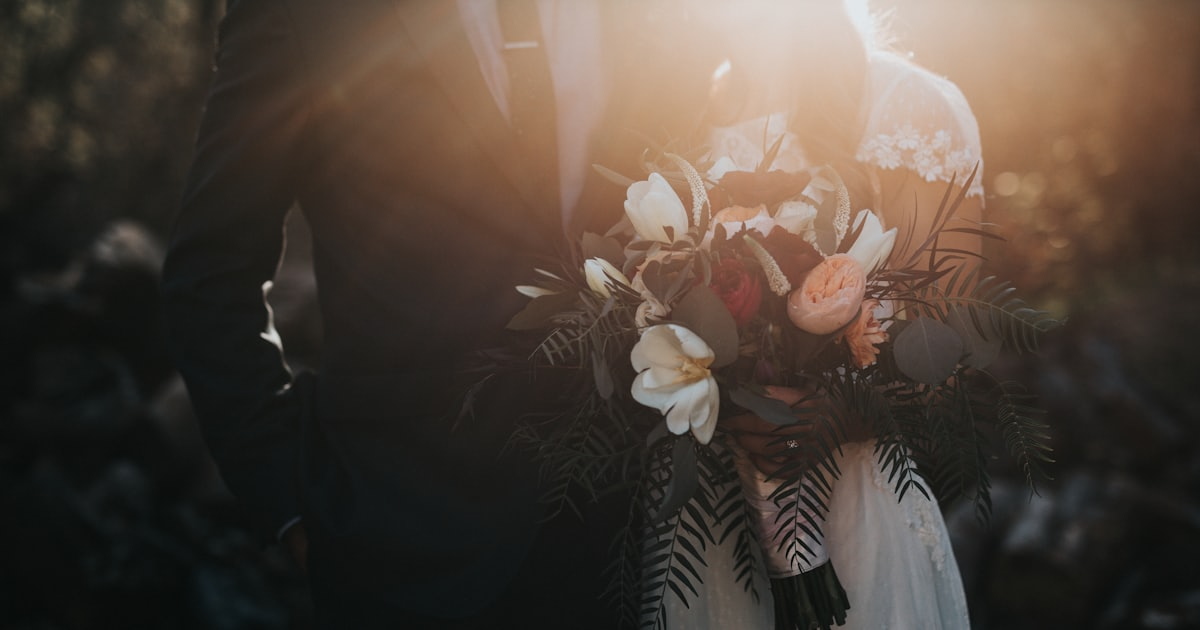
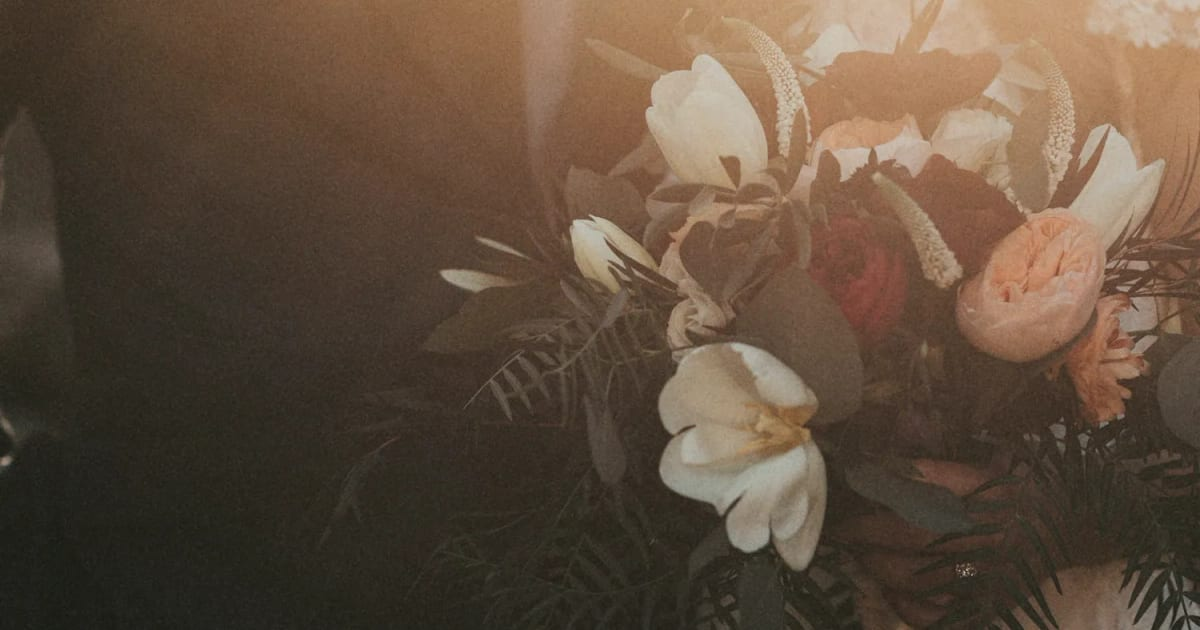
feat: spójna seria zdjęć w jednej gradacji filmowej
Słabe kadry stockowe (tablet, czerwony sweter, zachód z sylwetkami,
modelka zamiast fotografki) zastąpione kadrami w stylu Portra 400,
reszta przepuszczona przez wspólną gradację: ciepłe światła, podniesione
czernie, stonowane nasycenie, drobne ziarno. Zdjęcia jako WebP,
proporcje ujednolicone do 4:5 i 3:2, numery kadrów stałe jak na stykówce.

diff --git a/src/data/content.ts b/src/data/content.ts
@@ -1,20 +1,22 @@
 import type { StaticImageData } from "next/image";
 
-import hero from "../../public/gallery/hero.jpg";
-import lena from "../../public/gallery/lena.jpg";
-import slub01 from "../../public/gallery/slub-01.jpg";
-import slub02 from "../../public/gallery/slub-02.jpg";
-import slub03 from "../../public/gallery/slub-03.jpg";
-import slub04 from "../../public/gallery/slub-04.jpg";
-import slub05 from "../../public/gallery/slub-05.jpg";
-import slub06 from "../../public/gallery/slub-06.jpg";
-import portret01 from "../../public/gallery/portret-01.jpg";
-import portret02 from "../../public/gallery/portret-02.jpg";
-import portret03 from "../../public/gallery/portret-03.jpg";
-import portret04 from "../../public/gallery/portret-04.jpg";
-import rodzina01 from "../../public/gallery/rodzina-01.jpg";
-import rodzina02 from "../../public/gallery/rodzina-02.jpg";
-import rodzina03 from "../../public/gallery/rodzina-03.jpg";
+import hero from "../../public/gallery/hero.webp";
+import lena from "../../public/gallery/lena.webp";
+import slubPalma from "../../public/gallery/slub-palma.webp";
+import slubGuziki from "../../public/gallery/slub-guziki.webp";
+import slubWelon from "../../public/gallery/slub-welon.webp";
+import slubTaniec from "../../public/gallery/slub-taniec.webp";
+import slubTatry from "../../public/gallery/slub-tatry.webp";
+import slubSad from "../../public/gallery/slub-sad.webp";
+import slubBrama from "../../public/gallery/slub-brama.webp";
+import portretJulia from "../../public/gallery/portret-julia.webp";
+import portretHalina from "../../public/gallery/portret-halina.webp";
+import portretEwa from "../../public/gallery/portret-ewa.webp";
+import portretWeronika from "../../public/gallery/portret-weronika.webp";
+import rodzinaLaka from "../../public/gallery/rodzina-laka.webp";
+import rodzinaNiedziela from "../../public/gallery/rodzina-niedziela.webp";
+import rodzinaWydmy from "../../public/gallery/rodzina-wydmy.webp";
+import klisza from "../../public/render/klisza.webp";
 
 export const site = {
   name: "Lena Czarnecka",
@@ -29,16 +31,19 @@ export const site = {
 
 export const heroImage = hero;
 export const portraitImage = lena;
+export const filmStill = klisza;
 
 export type Category = "slub" | "portret" | "rodzina";
 
-export const categories: { id: Category; label: string }[] = [
-  { id: "slub", label: "Śluby" },
-  { id: "portret", label: "Portrety" },
-  { id: "rodzina", label: "Rodzinne" },
+export const categories: { id: Category; label: string; anchor: string; note: string }[] = [
+  { id: "slub", label: "Śluby", anchor: "sluby", note: "reportaż całego dnia" },
+  { id: "portret", label: "Portrety", anchor: "portrety", note: "plener i studio" },
+  { id: "rodzina", label: "Rodzinne", anchor: "rodzinne", note: "dom, łąka, morze" },
 ];
 
 export type Photo = {
+  /** stały numer kadru, jak na stykówce: nie zmienia się przy filtrowaniu */
+  nr: number;
   src: StaticImageData;
   alt: string;
   title: string;
@@ -46,105 +51,115 @@ export type Photo = {
   category: Category;
 };
 
-export const photos: Photo[] = [
+const raw: Omit<Photo, "nr">[] = [
   {
-    src: slub01,
+    src: slubPalma,
     alt: "Para młoda idzie pod palmą o zmierzchu, panna młoda trzyma bukiet",
-    title: "Marta & Jan",
+    title: "Marta i Jan",
     place: "Taormina, Sycylia",
     category: "slub",
   },
   {
-    src: portret01,
+    src: portretJulia,
     alt: "Portret kobiety w prążkowanej koszuli w złotym świetle zachodu",
     title: "Julia",
     place: "Zakrzówek, złota godzina",
     category: "portret",
   },
   {
-    src: slub03,
-    alt: "Dłonie pary młodej z obrączkami na tle bukietu",
-    title: "Detal — obrączki",
+    src: slubGuziki,
+    alt: "Dłonie mamy zapinają rząd drobnych guzików na plecach sukni ślubnej, poranne światło z okna",
+    title: "Ania i Paweł: ostatni guzik",
     place: "Dwór w Tomaszowicach",
     category: "slub",
   },
   {
-    src: rodzina01,
-    alt: "Wielopokoleniowa rodzina trzyma się za ręce na plaży o zachodzie słońca",
-    title: "Trzy pokolenia",
-    place: "Bałtyk, sierpień",
-    category: "rodzina",
-  },
-  {
-    src: slub02,
-    alt: "Para młoda na kamienistej plaży, welon owinięty wokół obojga",
-    title: "Gosia & Tomek",
-    place: "Klif w Orłowie",
-    category: "slub",
-  },
-  {
-    src: portret02,
-    alt: "Roześmiana kobieta w bordowej sukience, portret miejski",
-    title: "Natalia",
-    place: "Kazimierz, Kraków",
-    category: "portret",
-  },
-  {
-    src: slub05,
-    alt: "Para młoda idzie przez górską przełęcz o świcie",
-    title: "Kasia & Michał — plener",
-    place: "Tatry Zachodnie",
-    category: "slub",
-  },
-  {
-    src: rodzina02,
-    alt: "Rodzice z trójką dzieci idą gęsiego przez letnią łąkę",
+    src: rodzinaLaka,
+    alt: "Rodzice z trójką dzieci idą gęsiego przez letnią łąkę, trzymając się za ręce",
     title: "Rodzina K.",
     place: "Łąki pod Krakowem",
     category: "rodzina",
   },
   {
-    src: slub04,
-    alt: "Pocałunek pary młodej w deszczu płatków kwiatów wśród gości",
-    title: "Ania & Paweł",
+    src: slubTaniec,
+    alt: "Pierwszy taniec pary młodej w drewnianej stodole pod girlandą żarówek, goście jako sylwetki na pierwszym planie",
+    title: "Ania i Paweł: pierwszy taniec",
     place: "Dwór w Tomaszowicach",
     category: "slub",
   },
   {
-    src: portret03,
-    alt: "Portret uśmiechniętej kobiety o blond włosach w wieczornym świetle ogrodu",
+    src: portretHalina,
+    alt: "Starsza kobieta o srebrnych włosach z uśmiechem patrzy na bukiet dalii w swoim ogródku",
+    title: "Pani Halina",
+    place: "Ogródki działkowe, Nowa Huta",
+    category: "portret",
+  },
+  {
+    src: slubWelon,
+    alt: "Para młoda na kamienistej plaży, długi welon rozwiany wokół obojga",
+    title: "Gosia i Tomek",
+    place: "Klif w Orłowie",
+    category: "slub",
+  },
+  {
+    src: rodzinaNiedziela,
+    alt: "Dwoje małych dzieci w piżamach skacze po łóżku z lnianą pościelą w porannym słońcu",
+    title: "Niedziela w domu",
+    place: "Sesja domowa, Krowodrza",
+    category: "rodzina",
+  },
+  {
+    src: slubSad,
+    alt: "Długi stół weselny w sadzie po kolacji: lniany obrus, świece, polne kwiaty i kieliszki w późnym świetle",
+    title: "Ania i Paweł: po kolacji",
+    place: "Sad przy dworze w Tomaszowicach",
+    category: "slub",
+  },
+  {
+    src: portretEwa,
+    alt: "Portret uśmiechniętej kobiety o jasnych włosach w wieczornym świetle ogrodu",
     title: "Pani Ewa",
     place: "Wola Justowska",
     category: "portret",
   },
   {
-    src: rodzina03,
-    alt: "Mama z dwójką małych dzieci na kanapie podczas sesji domowej",
-    title: "Niedziela w domu",
-    place: "Sesja lifestyle",
+    src: slubTatry,
+    alt: "Para młoda idzie grzbietem gór o świcie, daleko w kadrze pod jasnym niebem",
+    title: "Kasia i Michał, plener",
+    place: "Tatry Zachodnie",
+    category: "slub",
+  },
+  {
+    src: rodzinaWydmy,
+    alt: "Tata z synkiem na barana i mama z kapeluszem w dłoni idą ścieżką przez wydmy porośnięte trawą",
+    title: "Wakacje nad morzem",
+    place: "Wydmy w Dębkach",
     category: "rodzina",
   },
   {
-    src: portret04,
+    src: portretWeronika,
     alt: "Studyjny portret kobiety w czarnej bluzce na grafitowym tle",
     title: "Weronika",
     place: "Studio, Podgórze",
     category: "portret",
   },
   {
-    src: slub06,
-    alt: "Kompozycja kwiatowa na drewnianej bramie ślubnej w plenerze",
+    src: slubBrama,
+    alt: "Bukiet z różami i zielenią przewiązany na lnianej bramie ślubnej w plenerze",
     title: "Ceremonia w plenerze",
     place: "Zamek Ogrodzieniec",
     category: "slub",
   },
 ];
 
+export const photos: Photo[] = raw.map((p, i) => ({ ...p, nr: i + 1 }));
+
 export type Pakiet = {
   nr: string;
   name: string;
   sub: string;
   includes: string[];
+  /** cena "od", bez słowa "od" (dodaje je widok) */
   price: string;
 };
 
@@ -159,7 +174,7 @@ export const pakiety: Pakiet[] = [
       "galeria online na 12 miesięcy",
       "przewodnik „jak się przygotować”",
     ],
-    price: "od 650 zł",
+    price: "650\u00a0zł",
   },
   {
     nr: "02",
@@ -171,7 +186,7 @@ export const pakiety: Pakiet[] = [
       "galeria online + pendrive w pudełku",
       "mini-plener w dniu ślubu",
     ],
-    price: "od 4 900 zł",
+    price: "4\u00a0900\u00a0zł",
   },
   {
     nr: "03",
@@ -183,7 +198,7 @@ export const pakiety: Pakiet[] = [
       "album 30×30 ręcznie oprawiany",
       "dwie fotoksiążki dla rodziców",
     ],
-    price: "od 7 400 zł",
+    price: "7\u00a0400\u00a0zł",
   },
 ];
 
@@ -192,13 +207,13 @@ export type Opinia = { quote: string; author: string; context: string };
 export const opinie: Opinia[] = [
   {
     quote:
-      "Lena jest niewidzialna w najlepszym możliwym sensie. Przez cały dzień nie czuliśmy obiektywu, a potem w galerii odnaleźliśmy każdą emocję — także te, o których nie wiedzieliśmy.",
+      "Lena jest niewidzialna w najlepszym możliwym sensie. Przez cały dzień nie czuliśmy obiektywu, a potem w galerii odnaleźliśmy każdą emocję, także te, o których nie wiedzieliśmy.",
     author: "Marta i Jan",
     context: "reportaż ślubny, Sycylia",
   },
   {
     quote:
-      "Bałam się sesji jak ognia, bo „nie wychodzę na zdjęciach”. Po dziesięciu minutach zapomniałam, że ktoś mnie fotografuje. Wyszłam ja — tylko w wersji, którą wreszcie lubię.",
+      "Bałam się sesji jak ognia, bo „nie wychodzę na zdjęciach”. Po dziesięciu minutach zapomniałam, że ktoś mnie fotografuje. Wyszłam ja, tylko w wersji, którą wreszcie lubię.",
     author: "Julia",
     context: "sesja portretowa",
   },
@@ -213,12 +228,12 @@ export const opinie: Opinia[] = [
 export const oMnie = {
   heading: "Fotografuję tak, żeby za dwadzieścia lat pachniało tamtym dniem.",
   paragraphs: [
-    "Nazywam się Lena Czarnecka i od dziewięciu lat dokumentuję śluby, portrety i codzienność rodzin — głównie w Krakowie, ale walizka zawsze stoi spakowana. Zaczynałam od analogowej lustrzanki taty; do dziś najbardziej interesuje mnie to, co dzieje się między pozowanymi kadrami: spojrzenia, dłonie, łza, której nikt nie zdążył wytrzeć.",
-    "Pracuję reportażowo. Nie ustawiam, nie poprawiam rzeczywistości — towarzyszę jej dyskretnie i czekam na moment. Edytuję w ciepłych, miękkich tonacjach inspirowanych filmem analogowym, bo wierzę, że zdjęcia mają się dobrze starzeć — jak dobre wino i dobre małżeństwa.",
+    "Nazywam się Lena Czarnecka i od dziewięciu lat dokumentuję śluby, portrety i codzienność rodzin. Głównie w Krakowie, ale walizka zawsze stoi spakowana. Zaczynałam od analogowej lustrzanki taty; do dziś najbardziej interesuje mnie to, co dzieje się między pozowanymi kadrami: spojrzenia, dłonie, łza, której nikt nie zdążył wytrzeć.",
+    "Pracuję reportażowo. Nie ustawiam i nie poprawiam rzeczywistości: towarzyszę jej dyskretnie i czekam na moment. Edytuję w ciepłych, miękkich tonacjach inspirowanych filmem analogowym, bo wierzę, że zdjęcia mają się dobrze starzeć. Jak dobre wino i dobre małżeństwa.",
   ],
   facts: [
     { value: "200+", label: "reportaży ślubnych" },
     { value: "9", label: "lat za obiektywem" },
-    { value: "60 000", label: "kadrów rocznie" },
+    { value: "60\u00a0000", label: "kadrów rocznie" },
   ],
 };
